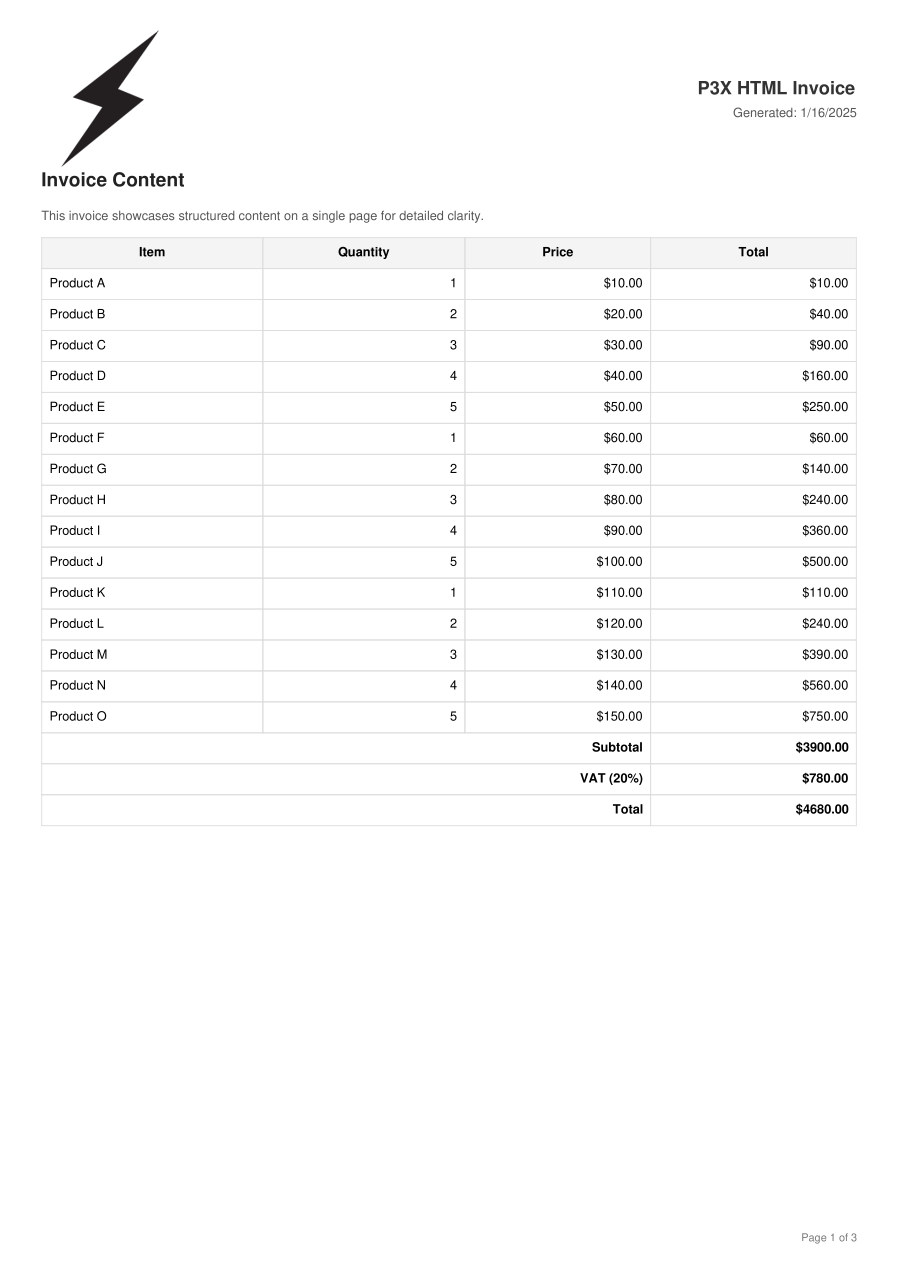
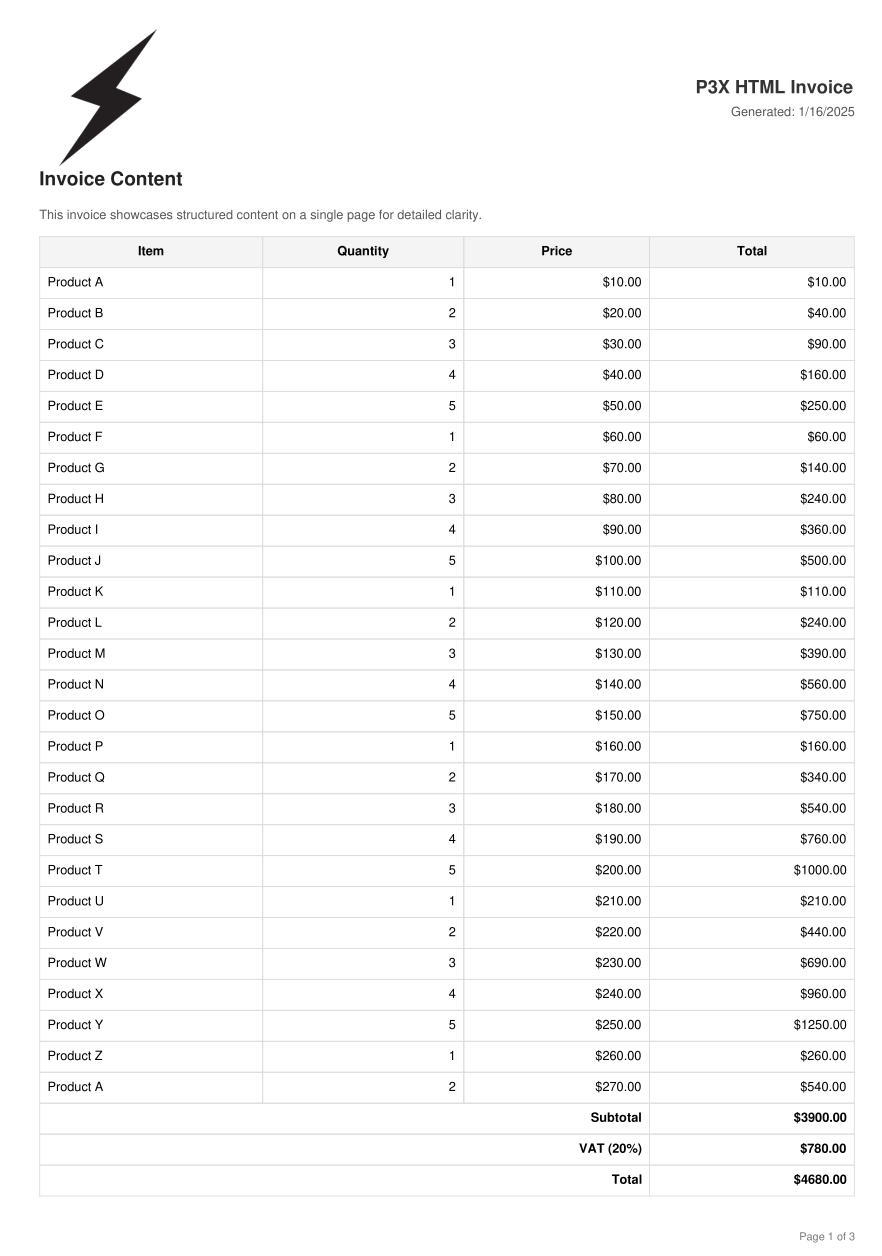
r0b08x [chore]   1/16/2025, 6:32:28 AM

diff --git a/test/test.js b/test/test.js
@@ -49,7 +49,7 @@ const fs = require('fs');
                             <th style="border: 1px solid #ddd; padding: 8px; background-color: #f4f4f4;">Price</th>
                             <th style="border: 1px solid #ddd; padding: 8px; background-color: #f4f4f4;">Total</th>
                         </tr>
-                        ${Array.from({ length: 15 }).map((_, i) => {
+                        ${Array.from({ length: 27 }).map((_, i) => {
                             const price = (i + 1) * 10;
                             const quantity = (i % 5) + 1;
                             const total = price * quantity;

diff --git a/README.md b/README.md
@@ -6,7 +6,7 @@
 
 
 
-# 📃 Generates PDF from HTML with custom headers and footers with wkhtmltopdf v2025.4.126
+# 📃 Generates PDF from HTML with custom headers and footers with wkhtmltopdf v2025.4.127
 
 
   
@@ -204,8 +204,9 @@ Download the binary manually and place it there:
 
 Check out an example output PDF:  
 [Example PDF](https://cdn.corifeus.com/git/html-pdf/assets/test-output.pdf).
-
-![Example Output](https://cdn.corifeus.com/git/html-pdf/assets/test-output.png)
+  
+![Example Output](https://cdn.corifeus.com/git/html-pdf/assets/test-output.png)  
+  
 ---
 
 ## 🔬 Legacy Rendering with Webkit
@@ -379,7 +380,7 @@ All my domains, including [patrikx3.com](https://patrikx3.com), [corifeus.eu](ht
 ---
 
 
-[**P3X-HTML-PDF**](https://corifeus.com/html-pdf) Build v2025.4.126
+[**P3X-HTML-PDF**](https://corifeus.com/html-pdf) Build v2025.4.127
 
  [![NPM](https://img.shields.io/npm/v/p3x-html-pdf.svg)](https://www.npmjs.com/package/p3x-html-pdf)  [![Donate for Corifeus / P3X](https://img.shields.io/badge/Donate-Corifeus-003087.svg)](https://www.paypal.com/cgi-bin/webscr?cmd=_s-xclick&hosted_button_id=QZVM4V6HVZJW6)  [![Contact Corifeus / P3X](https://img.shields.io/badge/Contact-P3X-ff9900.svg)](https://www.patrikx3.com/en/front/contact) [![Like Corifeus @ Facebook](https://img.shields.io/badge/LIKE-Corifeus-3b5998.svg)](https://www.facebook.com/corifeus.software)
 
